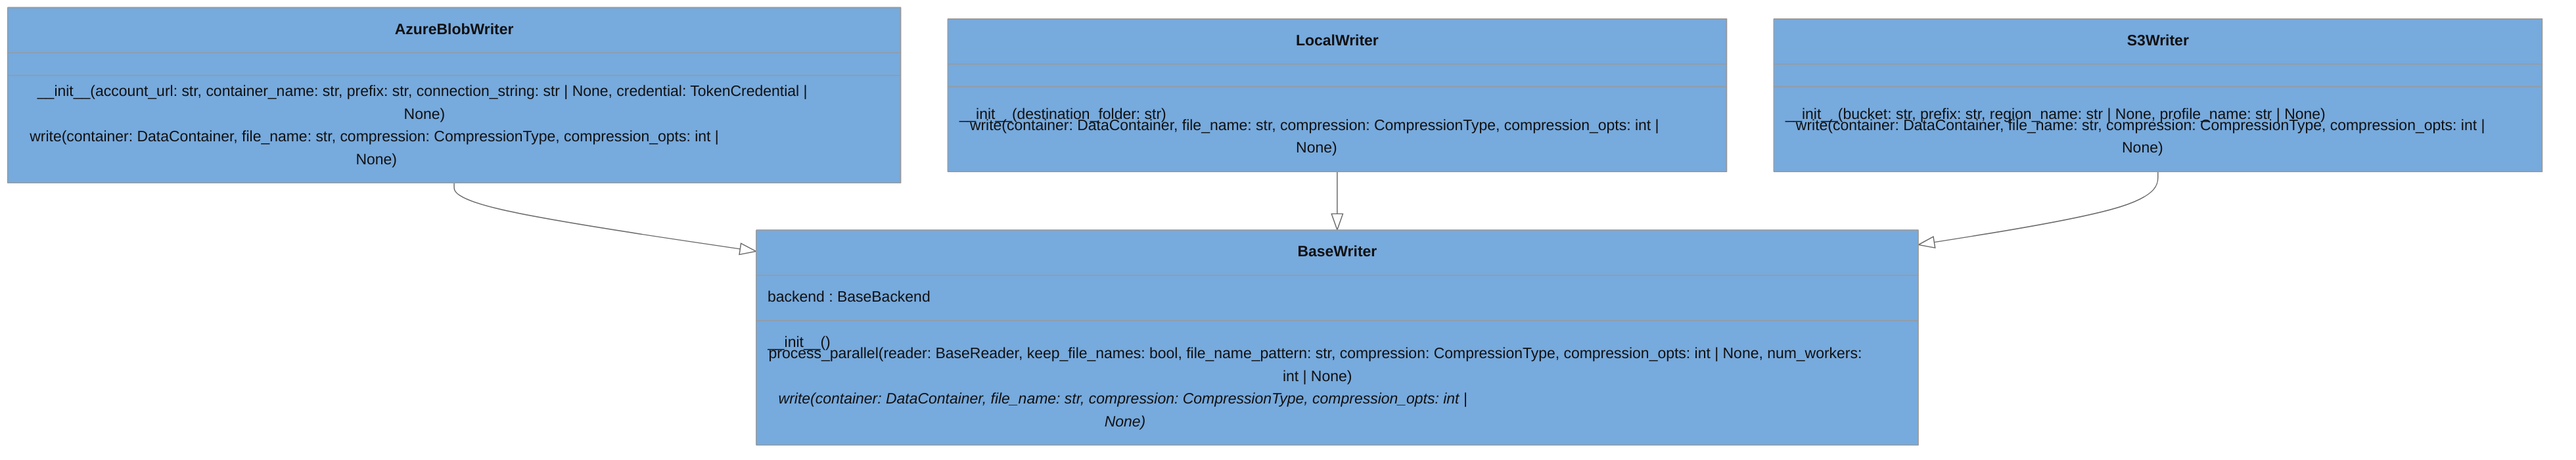
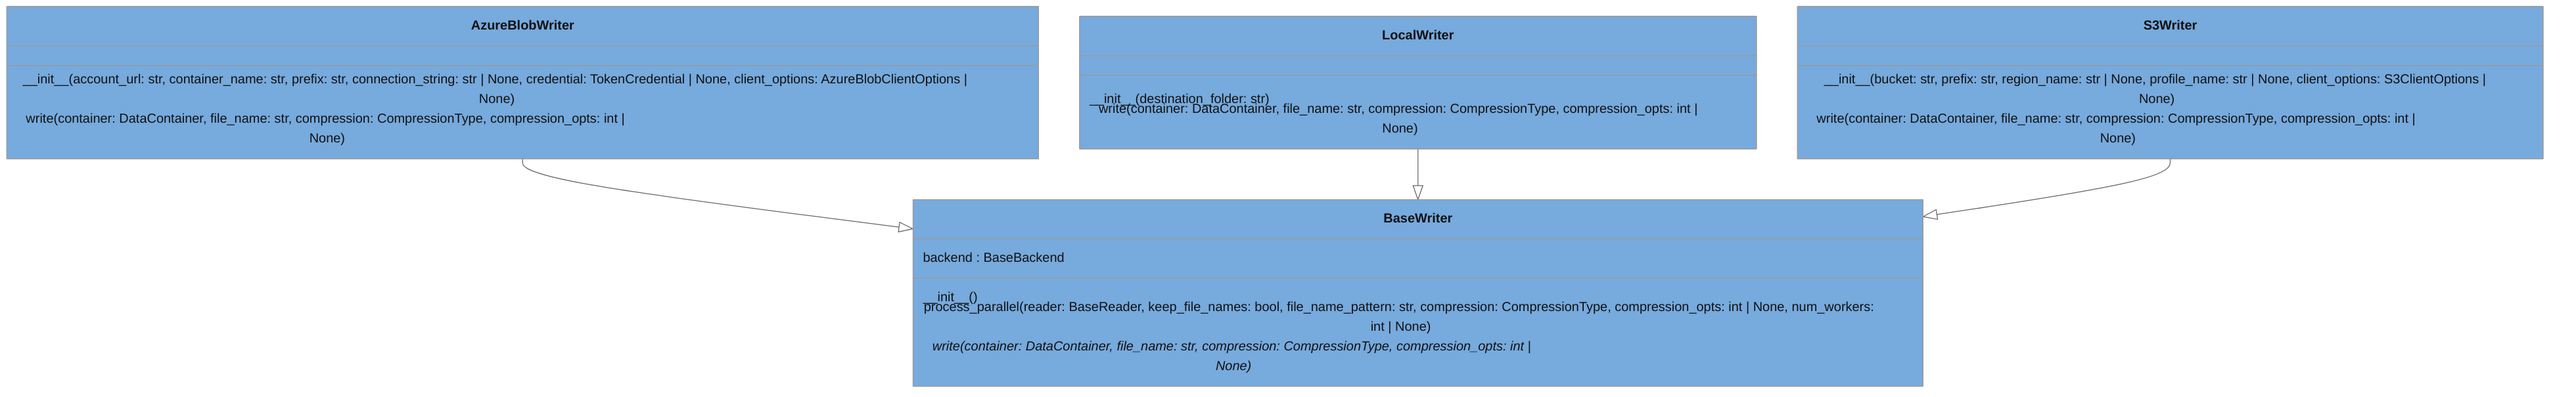
Release 0.3.5 (#402)
* Bump version: 0.3.5dev → 0.3.5

* Update mermaid diagrams

---------

diff --git a/src/pythermondt/__pkginfo__.py b/src/pythermondt/__pkginfo__.py
@@ -1,1 +1,1 @@
-__version__ = "0.3.5dev"
+__version__ = "0.3.5"
